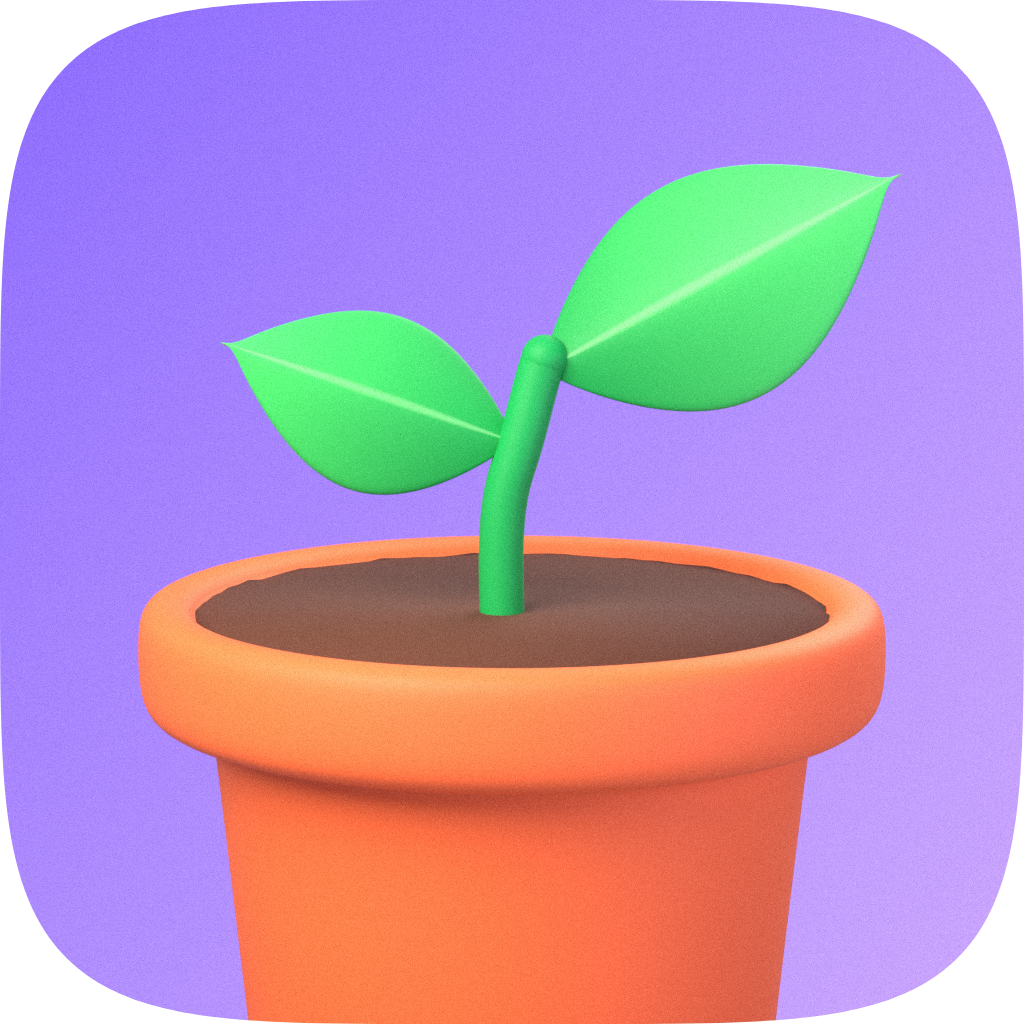
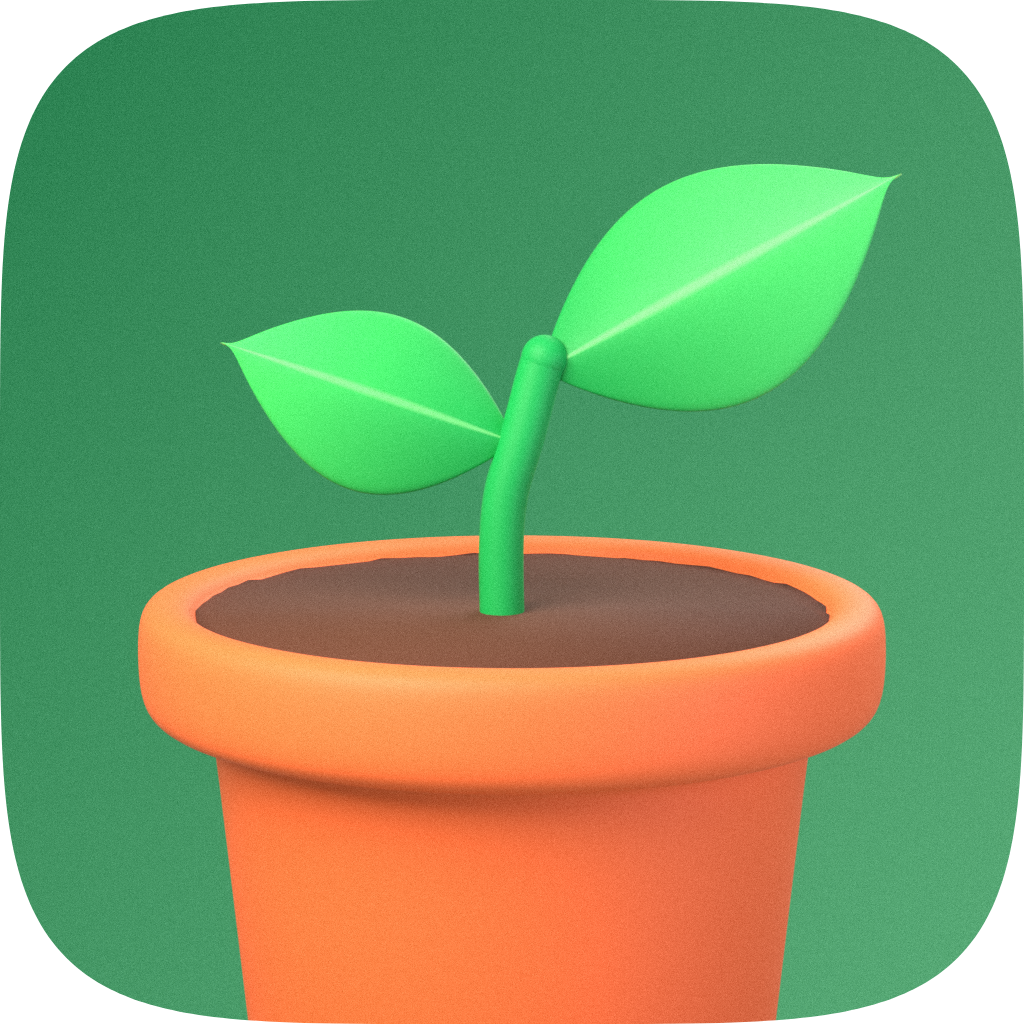
Retient le fond sauge pour le pot 3D
Le script rend désormais la version sauge par défaut ; pot-3d.png,
l'aperçu en squircle et la planche passent à ce fond.

Claude-Session: https://claude.ai/code/session_01PDVjaF1d2UBx4x9v8SHUv3

diff --git a/icones-proposees/pot-3d.py b/icones-proposees/pot-3d.py
@@ -3,7 +3,7 @@ from mathutils import Vector
 argv=sys.argv[sys.argv.index('--')+1:] if '--' in sys.argv else []
 SAMPLES=int(argv[0]) if argv else 64; OUT=argv[1] if len(argv)>1 else '/tmp/r.png'
 # fond : deux teintes du dégradé et teinte de la lumière d'ambiance
-BG0,BG1,AMB=(argv[2:5] if len(argv)>=5 else ['#8A6DFF','#C9A8FF','#E4DAFF'])
+BG0,BG1,AMB=(argv[2:5] if len(argv)>=5 else ['#2F7D52','#5FA87A','#DDEFE2'])
 bpy.ops.wm.read_factory_settings(use_empty=True)
 sc=bpy.context.scene
 def hexc(h,a=1):
